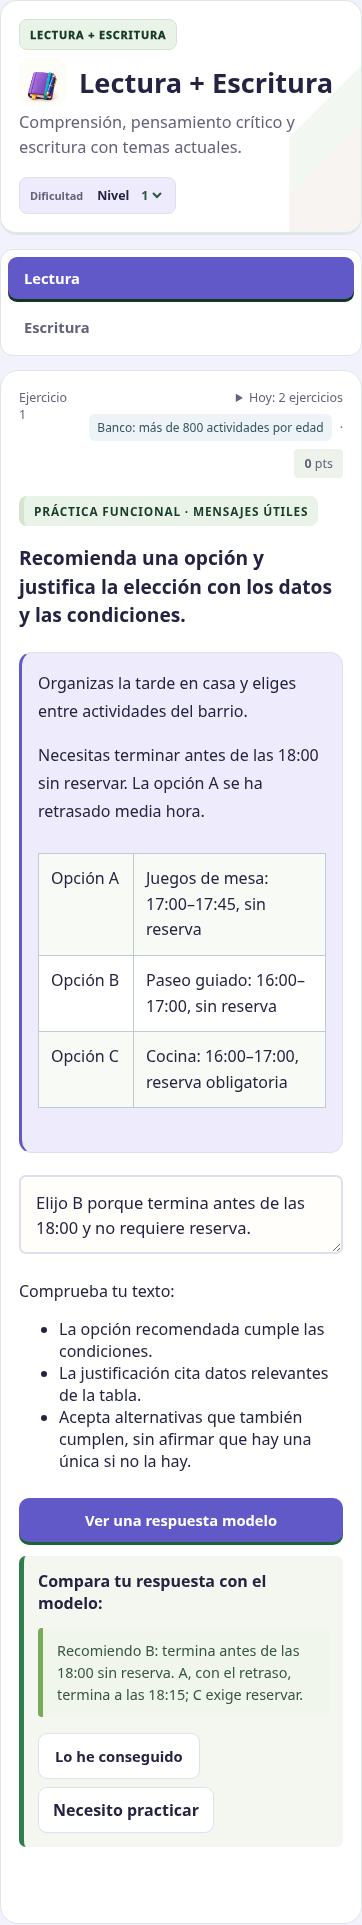
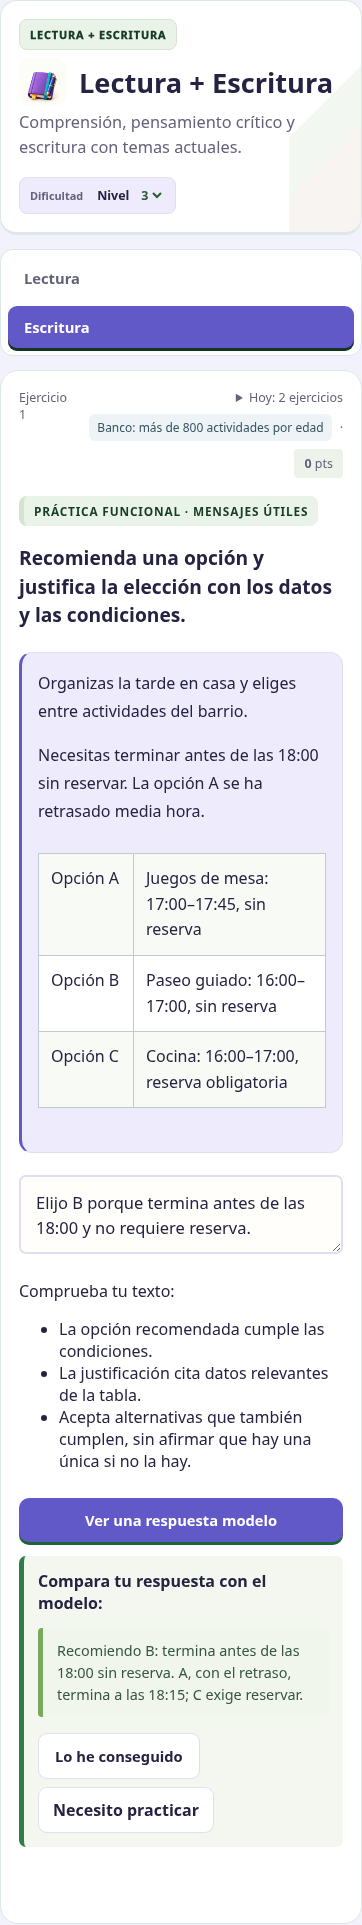
Align writing review capture with its selected mode and level

Changed region(s): [[0.0, 0.1247, 1.0, 0.187]]

diff --git a/tests/browser-content-quality.py b/tests/browser-content-quality.py
@@ -38,6 +38,8 @@ try:
   # New everyday writing uses the existing manual review and printable source.
   page.evaluate("()=>{window.__fixture=FunctionalContent.pool('teen','literacy',3).find(it=>it.qualityDescriptor.semanticFamily==='reading.recommendation'&&it.qualityDescriptor.scenarioFamily==='home.messages');window.__current=null}")
   workspace(page).locator('#navMenu [data-subject=literacy]').click();page.wait_for_function('()=>window.__current?.writingPurpose&&document.querySelector("#exercisePrompt").textContent===__current.q')
+  page.locator('.language-mode-btn[data-mode=writing]').click();page.locator('#exerciseLevelSelect').select_option('3')
+  page.wait_for_function('()=>document.querySelector(".language-mode-btn[data-mode=writing]").classList.contains("active")&&document.querySelector("#exerciseLevelSelect").value==="3"&&document.querySelector("#writingCriteria li")')
   assert page.locator('#textAnswerArea').is_visible();assert page.locator('#writingCriteria li').count()==3
   assert page.locator('#exerciseOptions [data-answer]').count()==0
   page.locator('#textAnswerInput').fill('Elijo B porque termina antes de las 18:00 y no requiere reserva.')
